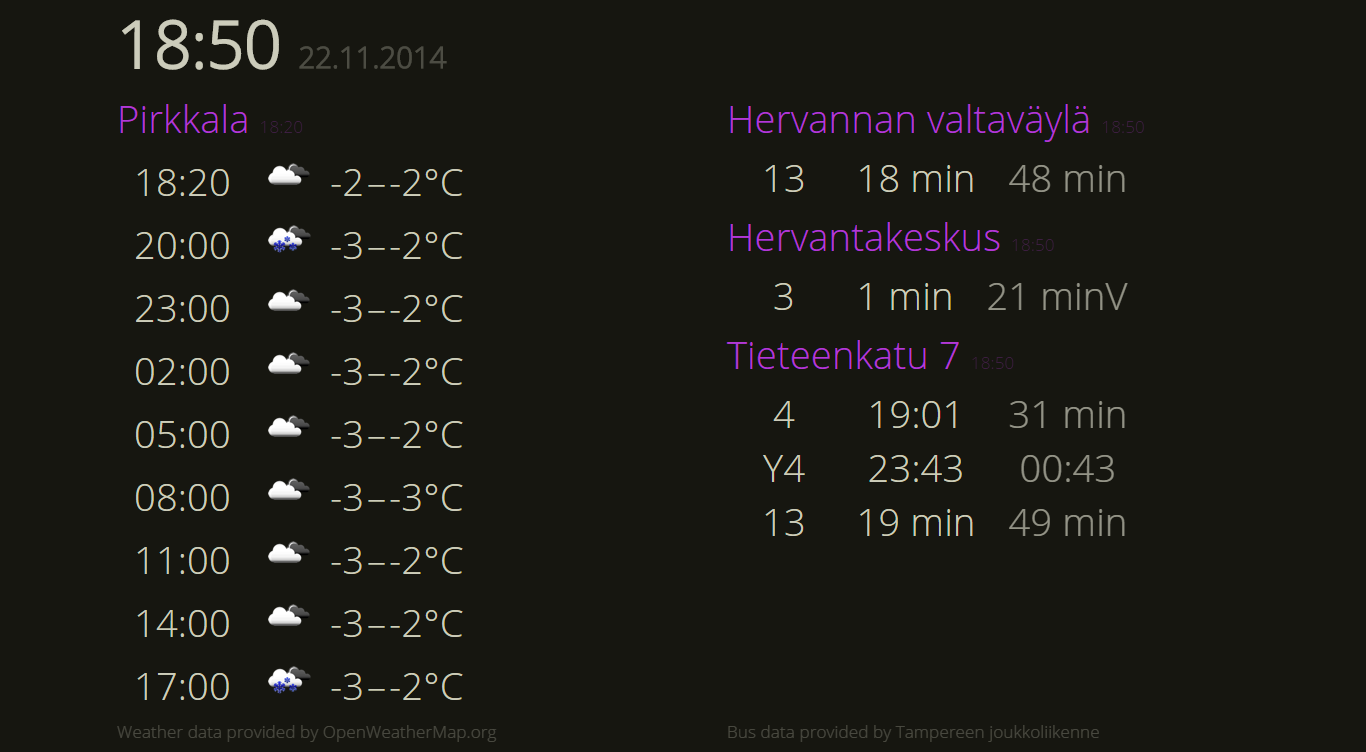
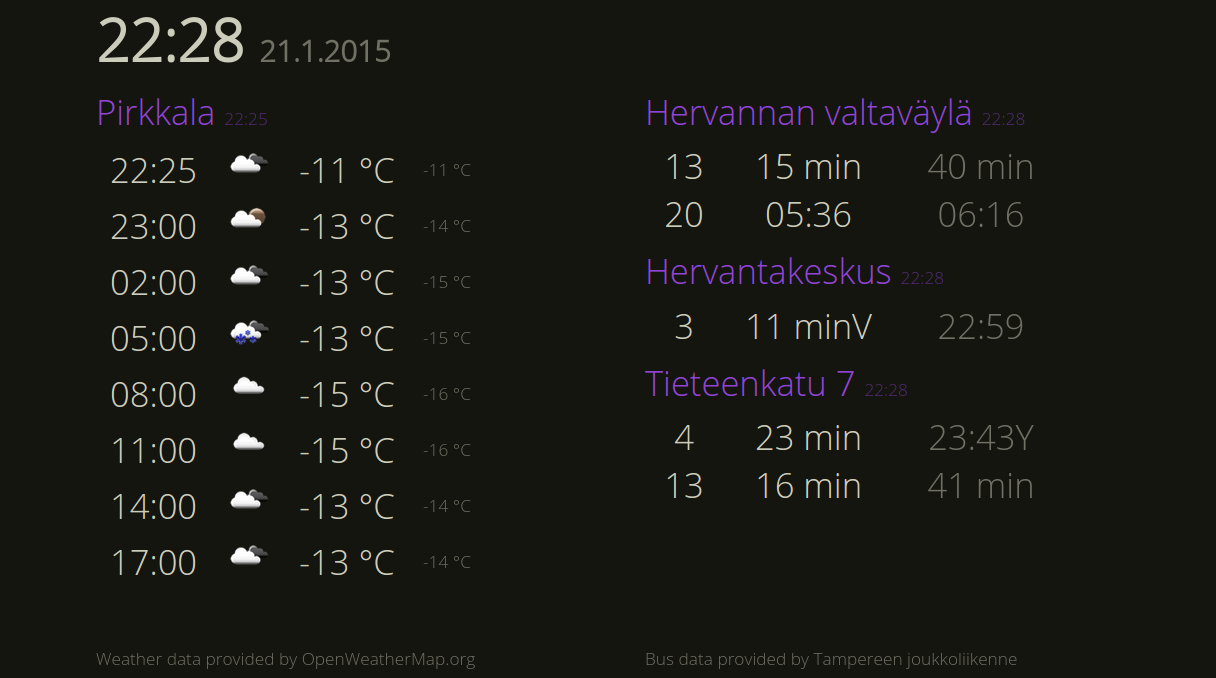
Updated screenshot and tweaked bus table spacing

diff --git a/legacy/radiate-server/static/style.css b/legacy/radiate-server/static/style.css
@@ -50,15 +50,15 @@ td.no_padding {
 
 /* Lissu-specific */
 .col_busline {
-    width: 80px;
+    width: 55px;
 }
 
 .col_buseta {
-    width: 140px;
+    width: 160px;
 }
 
 .opa_slight {
-    opacity: 0.6;
+    opacity: 0.5;
 }
 
 /* Weather-specific */
